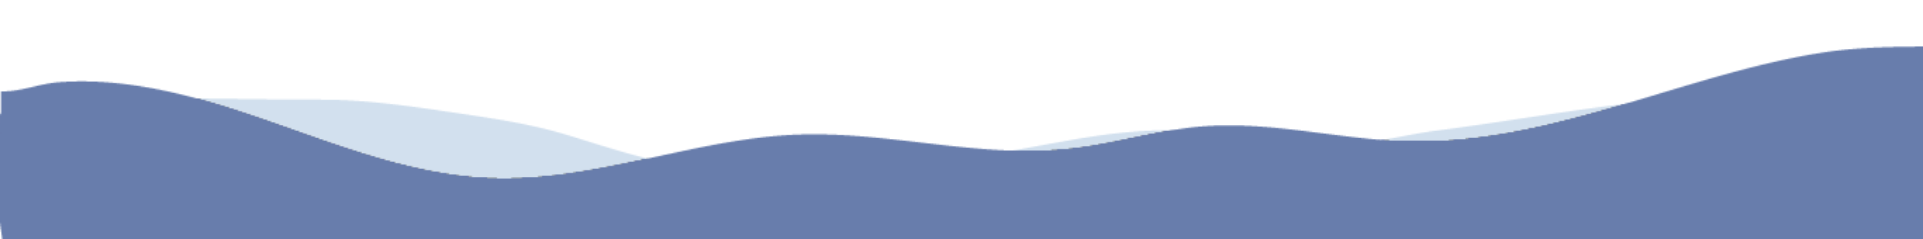
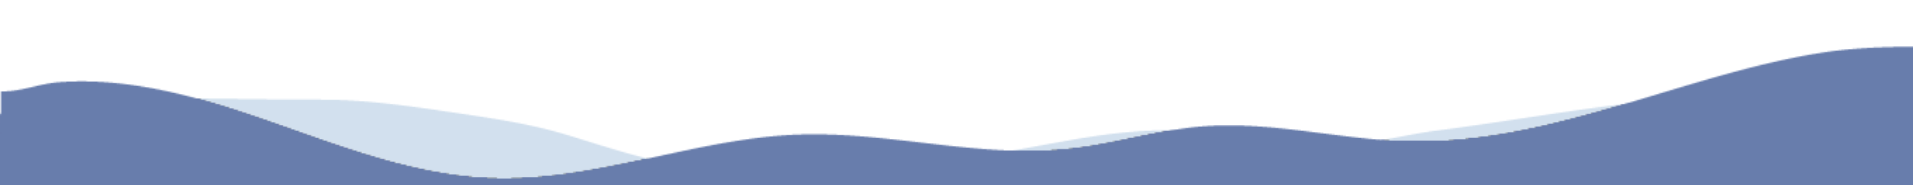
home page waves changes

Changed region(s): [[0.0, 0.1892, 1.0, 0.973]]

diff --git a/front-end/style.css b/front-end/style.css
@@ -209,7 +209,7 @@ label {
   gap: 7vw;
   justify-content: center;
   width: auto;
-  height: 30vw;
+  height: 37vw;
 }
 
 .home-data {
@@ -238,12 +238,12 @@ label {
 
 .home-wave-img {
   width: 100vw;
-  height: 25vh;
+  height: 10vh;
 }
 
 .home-wave-mission-img {
   width: 100vw;
-  height: 25vh;
+  height: 10vh;
 }
 
 #home-big-button {
@@ -269,7 +269,7 @@ label {
 .home-articles {
   background-color: var(--midblue-color);
   width: 100vw;
-  height: auto;
+  height: 43vw;
 }
 
 .home-articles-title {
@@ -286,6 +286,7 @@ label {
   gap: 7vw;
   justify-content: center;
   margin-top: 3vw;
+  height: 33vw;
 }
 
 .home-card {
@@ -368,7 +369,7 @@ label {
 /* Third section home (mission) */
 .home-our-mission {
   width: 100vw;
-  height: auto;
+  height: 75vh;
 }
 
 .home-mission-title {
@@ -401,8 +402,7 @@ label {
 
 .home-second-wave-mission-img {
   width: 100vw;
-  height: 25vh;
-  background-color: var(--white-color);
+  height: auto;
 }
 
 /* Fourth section home (features) */
@@ -410,6 +410,7 @@ label {
   background-color: var(--darkblue-color);
   width: 100vw;
   padding-bottom: 8vw;
+  height: 85vh;
 }
 
 .home-features-title {
@@ -1392,7 +1393,6 @@ select {
 }
 
 .footer-quote {
-  padding-top: 1vw;
   padding-bottom: 1vw;
   width: 100vw;
   height: auto;
@@ -1442,6 +1442,13 @@ select {
   transform: translateY(-4.2vw);
   width: 100vw;
   height: auto;
+}
+
+.wave-footer-bottom-img {
+  width: 100vw;
+  height: 5vh;
+  margin-top: -0.8vw;
+  margin-bottom: -1vw;
 }
 
 /* TEST */

diff --git a/front-end/index.html b/front-end/index.html
@@ -218,7 +218,7 @@
   </section>
 
   <footer>
-    <img src="./Assets/Images/home-features-bottom-wave.png" class="wave-footer-img" />
+    <img src="./Assets/Images/wave-footer-top.png" class="wave-footer-img" />
     <section class="footer-pavemind">
       <div class="footer-container">
         <img id="footer-logo" src="./Assets/Images/logo.svg" />
@@ -246,6 +246,7 @@
         </div>
         <img id="footer-picture" src="./Assets/Images/home-footer-woman-img.svg" />
       </div>
+      <img src="./Assets/Images/wave-footer-bottom.png" class="wave-footer-bottom-img">
       <div class="footer-quote">
         <h1 class="footer-quote-text"> A NEW BEGINNING AWAITS YOU. </h1>
       </div>
